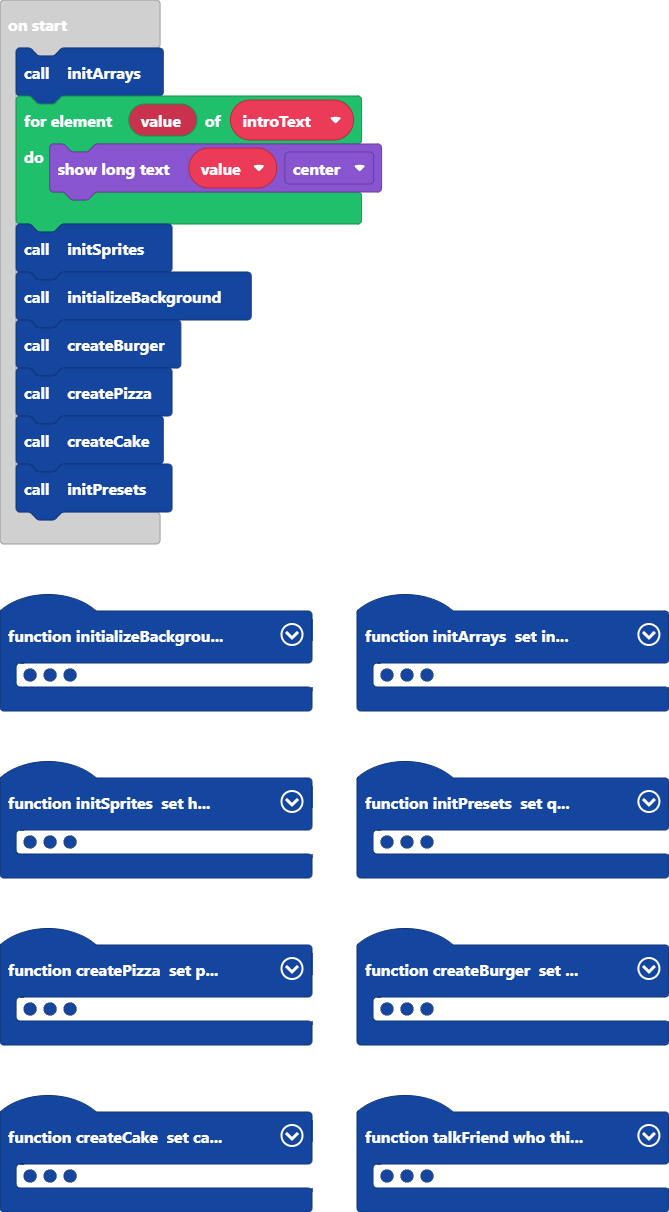
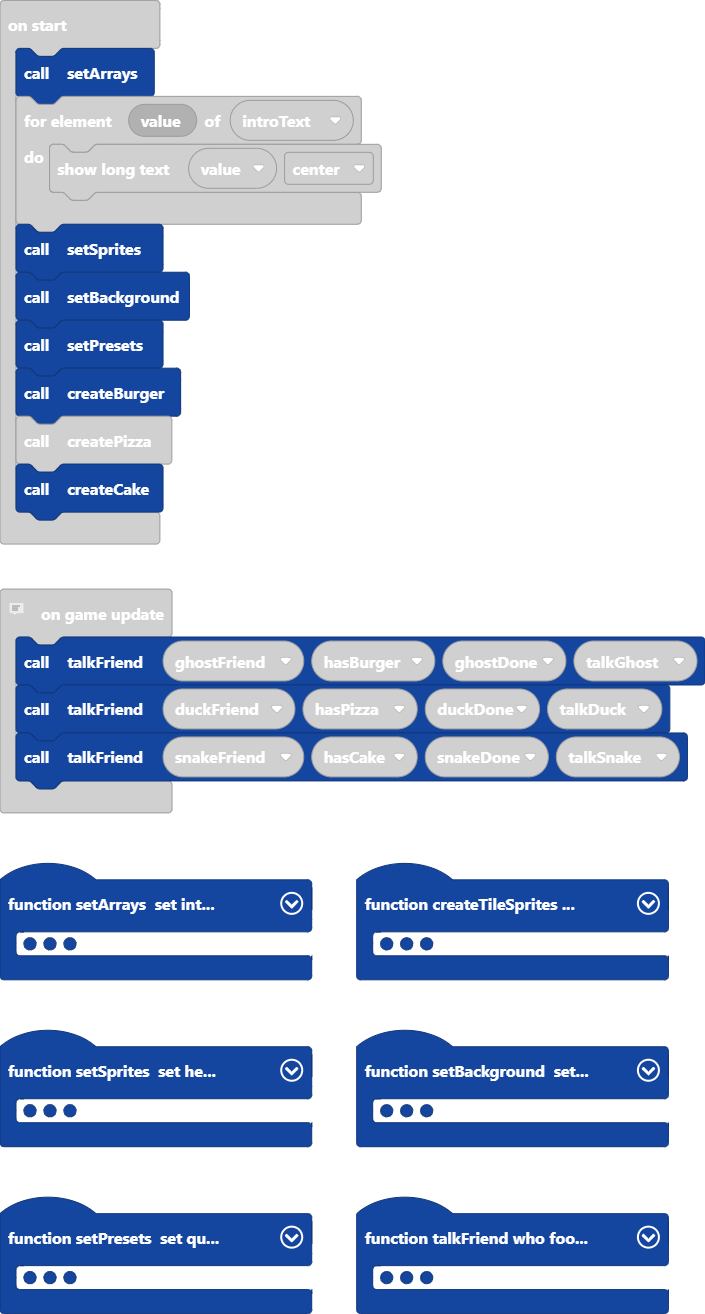
Update main.blocks, main.ts

diff --git a/main.ts b/main.ts
@@ -21,7 +21,29 @@ sprites.onOverlap(SpriteKind.Player, SpriteKind.Item, function (sprite, otherSpr
         hasCake = true
     }
 })
-function initSprites () {
+function placeTileSprites () {
+    tiles.placeOnRandomTile(topRoofMiddle, assets.tile`myTile0`)
+    tiles.placeOnRandomTile(topRoofLeft, assets.tile`myTile2`)
+    tiles.placeOnRandomTile(topRoofRight, assets.tile`myTile1`)
+    tiles.placeOnRandomTile(middleRoofLeft, assets.tile`houseDoor9`)
+    tiles.placeOnRandomTile(middleRoofRight, assets.tile`houseDoor6`)
+    tiles.placeOnRandomTile(middleRoof, assets.tile`houseDoor`)
+    tiles.placeOnRandomTile(roofRight, assets.tile`myTile`)
+    tiles.placeOnRandomTile(roofLeft, assets.tile`myTile3`)
+}
+// checks completed quests
+controller.B.onEvent(ControllerButtonEvent.Pressed, function () {
+    if (hasBurger == true && ghostDone == false) {
+        game.splash("You have " + convertToText(questsDone) + "/3 quests done.", "You are holding a burger.")
+    } else if (hasPizza == true && duckDone == false) {
+        game.splash("You have " + convertToText(questsDone) + "/3 quests done.", "You are holding pizza.")
+    } else if (hasCake == true && snakeDone == false) {
+        game.splash("You have " + convertToText(questsDone) + "/3 quests done.", "You are holding cake.")
+    } else {
+        game.splash("You have " + convertToText(questsDone) + "/3 quests done.", "You are holding nothing.")
+    }
+})
+function setSprites () {
     // initialize sprites
     heroBat = sprites.create(img`
         . . f f f . . . . . . . . f f f 
@@ -108,74 +130,7 @@ function initSprites () {
         `, SpriteKind.Friend)
     snakeFriend.setPosition(114, 55)
 }
-function placeTileSprites () {
-    tiles.placeOnRandomTile(topRoofMiddle, assets.tile`myTile0`)
-    tiles.placeOnRandomTile(topRoofLeft, assets.tile`myTile2`)
-    tiles.placeOnRandomTile(topRoofRight, assets.tile`myTile1`)
-    tiles.placeOnRandomTile(middleRoofLeft, assets.tile`houseDoor9`)
-    tiles.placeOnRandomTile(middleRoofRight, assets.tile`houseDoor6`)
-    tiles.placeOnRandomTile(middleRoof, assets.tile`houseDoor`)
-    tiles.placeOnRandomTile(roofRight, assets.tile`myTile`)
-    tiles.placeOnRandomTile(roofLeft, assets.tile`myTile3`)
-}
-// checks completed quests
-controller.B.onEvent(ControllerButtonEvent.Pressed, function () {
-    if (hasBurger == true && ghostDone == false) {
-        game.splash("You have " + convertToText(questsDone) + "/3 quests done.", "You are holding a burger.")
-    } else if (hasPizza == true && duckDone == false) {
-        game.splash("You have " + convertToText(questsDone) + "/3 quests done.", "You are holding pizza.")
-    } else if (hasCake == true && snakeDone == false) {
-        game.splash("You have " + convertToText(questsDone) + "/3 quests done.", "You are holding cake.")
-    } else {
-        game.splash("You have " + convertToText(questsDone) + "/3 quests done.", "You are holding nothing.")
-    }
-})
-// creates or resets items
-function createPizza () {
-    pizza = sprites.create(img`
-        . . . . . . b b b b . . . . . . 
-        . . . . . . b 4 4 4 b . . . . . 
-        . . . . . . b b 4 4 4 b . . . . 
-        . . . . . b 4 b b b 4 4 b . . . 
-        . . . . b d 5 5 5 4 b 4 4 b . . 
-        . . . . b 3 2 3 5 5 4 e 4 4 b . 
-        . . . b d 2 2 2 5 7 5 4 e 4 4 e 
-        . . . b 5 3 2 3 5 5 5 5 e e e e 
-        . . b d 7 5 5 5 3 2 3 5 5 e e e 
-        . . b 5 5 5 5 5 2 2 2 5 5 d e e 
-        . b 3 2 3 5 7 5 3 2 3 5 d d e 4 
-        . b 2 2 2 5 5 5 5 5 5 d d e 4 . 
-        b d 3 2 d 5 5 5 d d d 4 4 . . . 
-        b 5 5 5 5 d d 4 4 4 4 . . . . . 
-        4 d d d 4 4 4 . . . . . . . . . 
-        4 4 4 4 . . . . . . . . . . . . 
-        `, SpriteKind.Item)
-    tiles.placeOnTile(pizza, tiles.getTileLocation(17, 10))
-    hasPizza = false
-}
-function createBurger () {
-    burger = sprites.create(img`
-        . . . . c c c b b b b b . . . . 
-        . . c c b 4 4 4 4 4 4 b b b . . 
-        . c c 4 4 4 4 4 5 4 4 4 4 b c . 
-        . e 4 4 4 4 4 4 4 4 4 5 4 4 e . 
-        e b 4 5 4 4 5 4 4 4 4 4 4 4 b c 
-        e b 4 4 4 4 4 4 4 4 4 4 5 4 4 e 
-        e b b 4 4 4 4 4 4 4 4 4 4 4 b e 
-        . e b 4 4 4 4 4 5 4 4 4 4 b e . 
-        8 7 e e b 4 4 4 4 4 4 b e e 6 8 
-        8 7 2 e e e e e e e e e e 2 7 8 
-        e 6 6 2 2 2 2 2 2 2 2 2 2 6 c e 
-        e c 6 7 6 6 7 7 7 6 6 7 6 c c e 
-        e b e 8 8 c c 8 8 c c c 8 e b e 
-        e e b e c c e e e e e c e b e e 
-        . e e b b 4 4 4 4 4 4 4 4 e e . 
-        . . . c c c c c e e e e e . . . 
-        `, SpriteKind.Item)
-    tiles.placeOnTile(burger, tiles.getTileLocation(5, 29))
-    hasBurger = false
-}
-function initPresets () {
+function setPresets () {
     // set variables
     questsDone = 0
     currentItem = false
@@ -186,7 +141,7 @@ function initPresets () {
     talkDuck = false
     talkSnake = false
 }
-function initializeTileSprites () {
+function createTileSprites () {
     topRoofMiddle = sprites.create(img`
         . . . . . . c c c c . . . . . . 
         . . . . . c e 4 5 e c . . . . . 
@@ -332,7 +287,36 @@ function initializeTileSprites () {
         . . . . . . . . . . . . . . . . 
         `, SpriteKind.tileThing)
 }
-function initArrays () {
+function setBackground () {
+    tiles.setCurrentTilemap(tilemap`level1`)
+    scene.cameraFollowSprite(heroBat)
+    createTileSprites()
+    placeTileSprites()
+}
+// creates or resets items
+function createPizza () {
+    pizza = sprites.create(img`
+        . . . . . . b b b b . . . . . . 
+        . . . . . . b 4 4 4 b . . . . . 
+        . . . . . . b b 4 4 4 b . . . . 
+        . . . . . b 4 b b b 4 4 b . . . 
+        . . . . b d 5 5 5 4 b 4 4 b . . 
+        . . . . b 3 2 3 5 5 4 e 4 4 b . 
+        . . . b d 2 2 2 5 7 5 4 e 4 4 e 
+        . . . b 5 3 2 3 5 5 5 5 e e e e 
+        . . b d 7 5 5 5 3 2 3 5 5 e e e 
+        . . b 5 5 5 5 5 2 2 2 5 5 d e e 
+        . b 3 2 3 5 7 5 3 2 3 5 d d e 4 
+        . b 2 2 2 5 5 5 5 5 5 d d e 4 . 
+        b d 3 2 d 5 5 5 d d d 4 4 . . . 
+        b 5 5 5 5 d d 4 4 4 4 . . . . . 
+        4 d d d 4 4 4 . . . . . . . . . 
+        4 4 4 4 . . . . . . . . . . . . 
+        `, SpriteKind.Item)
+    tiles.placeOnTile(pizza, tiles.getTileLocation(17, 10))
+    hasPizza = false
+}
+function setArrays () {
     introText = [
     "Welcome to our game!",
     "Press A to talk to a villager.",
@@ -357,6 +341,28 @@ function initArrays () {
     "I don't like this."
     ]
 }
+function createBurger () {
+    burger = sprites.create(img`
+        . . . . c c c b b b b b . . . . 
+        . . c c b 4 4 4 4 4 4 b b b . . 
+        . c c 4 4 4 4 4 5 4 4 4 4 b c . 
+        . e 4 4 4 4 4 4 4 4 4 5 4 4 e . 
+        e b 4 5 4 4 5 4 4 4 4 4 4 4 b c 
+        e b 4 4 4 4 4 4 4 4 4 4 5 4 4 e 
+        e b b 4 4 4 4 4 4 4 4 4 4 4 b e 
+        . e b 4 4 4 4 4 5 4 4 4 4 b e . 
+        8 7 e e b 4 4 4 4 4 4 b e e 6 8 
+        8 7 2 e e e e e e e e e e 2 7 8 
+        e 6 6 2 2 2 2 2 2 2 2 2 2 6 c e 
+        e c 6 7 6 6 7 7 7 6 6 7 6 c c e 
+        e b e 8 8 c c 8 8 c c c 8 e b e 
+        e e b e c c e e e e e c e b e e 
+        . e e b b 4 4 4 4 4 4 4 4 e e . 
+        . . . c c c c c e e e e e . . . 
+        `, SpriteKind.Item)
+    tiles.placeOnTile(burger, tiles.getTileLocation(5, 29))
+    hasBurger = false
+}
 function createCake () {
     cake = sprites.create(img`
         . . . . . . . . . . b b b . . . 
@@ -379,21 +385,15 @@ function createCake () {
     tiles.placeOnTile(cake, tiles.getTileLocation(27, 17))
     hasCake = false
 }
-function initializeBackground () {
-    tiles.setCurrentTilemap(tilemap`level1`)
-    scene.cameraFollowSprite(heroBat)
-    initializeTileSprites()
-    placeTileSprites()
-}
 // talk to friend sprite
-function talkFriend (who: Sprite, thing: boolean, quest: boolean, chat: boolean) {
+function talkFriend (who: Sprite, food: boolean, done: boolean, meet: boolean) {
     if (heroBat.overlapsWith(who) && controller.A.isPressed()) {
         heroBat.setFlag(SpriteFlag.Ghost, true)
         // has item, has not talked to sprite yet
         // giving item to sprite
         // has no items
         // has wrong item
-        if (chat == false && thing == true) {
+        if (meet == false && food == true) {
             if (who == ghostFriend) {
                 who.sayText("Please bring me a burger.", 500, false)
                 talkGhost = true
@@ -405,10 +405,10 @@ function talkFriend (who: Sprite, thing: boolean, quest: boolean, chat: boolean)
                 talkSnake = true
             }
             pause(200)
-        } else if (thing == true) {
+        } else if (food == true) {
             // quest not done
             // quest already done
-            if (quest == false) {
+            if (done == false) {
                 questsDone += 1
                 who.sayText("Thank you!", 500, false)
                 who.startEffect(effects.hearts, 500)
@@ -430,7 +430,7 @@ function talkFriend (who: Sprite, thing: boolean, quest: boolean, chat: boolean)
                     who.startEffect(effects.hearts, 500)
                 }
             }
-        } else if (currentItem == false && thing == false) {
+        } else if (currentItem == false && food == false) {
             if (who == ghostFriend) {
                 who.sayText("Please bring me a burger.", 500, false)
                 talkGhost = true
@@ -463,6 +463,10 @@ let friendText: string[] = []
 let talkSnake = false
 let talkDuck = false
 let talkGhost = false
+let snakeFriend: Sprite = null
+let duckFriend: Sprite = null
+let ghostFriend: Sprite = null
+let heroBat: Sprite = null
 let questsDone = 0
 let snakeDone = false
 let duckDone = false
@@ -475,10 +479,6 @@ let middleRoofLeft: Sprite = null
 let topRoofRight: Sprite = null
 let topRoofLeft: Sprite = null
 let topRoofMiddle: Sprite = null
-let snakeFriend: Sprite = null
-let duckFriend: Sprite = null
-let ghostFriend: Sprite = null
-let heroBat: Sprite = null
 let hasCake = false
 let hasPizza = false
 let hasBurger = false
@@ -487,16 +487,16 @@ let pizza: Sprite = null
 let burger: Sprite = null
 let currentItem = false
 let introText: string[] = []
-initArrays()
+setArrays()
 for (let value of introText) {
     game.showLongText(value, DialogLayout.Center)
 }
-initSprites()
-initializeBackground()
+setSprites()
+setBackground()
+setPresets()
 createBurger()
 createPizza()
 createCake()
-initPresets()
 // calls functions
 game.onUpdate(function () {
     talkFriend(ghostFriend, hasBurger, ghostDone, talkGhost)
